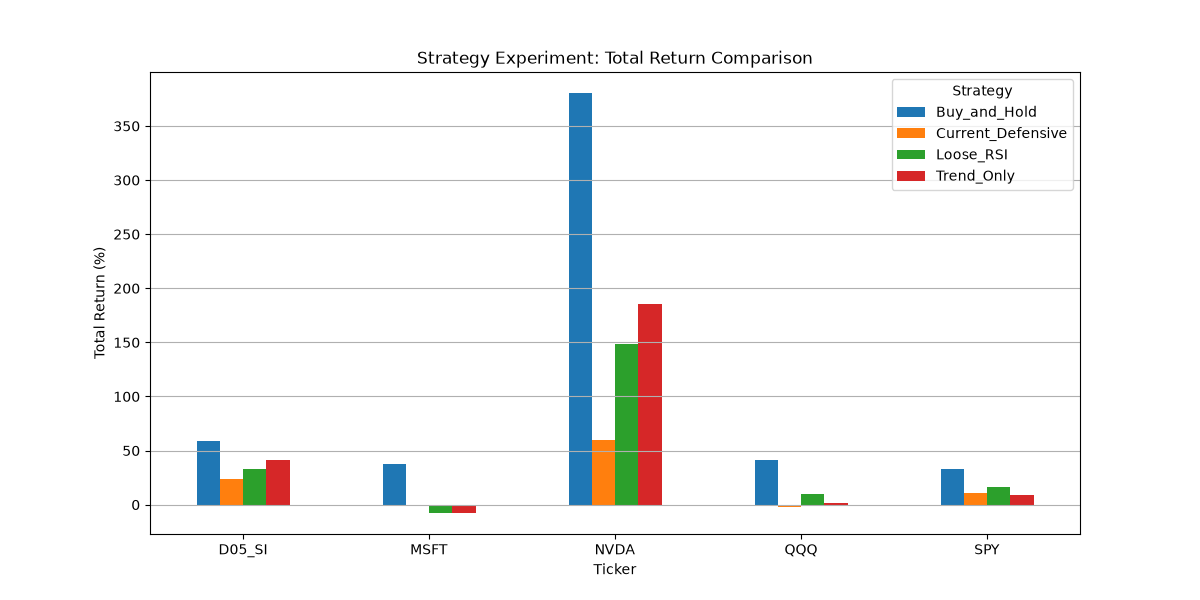
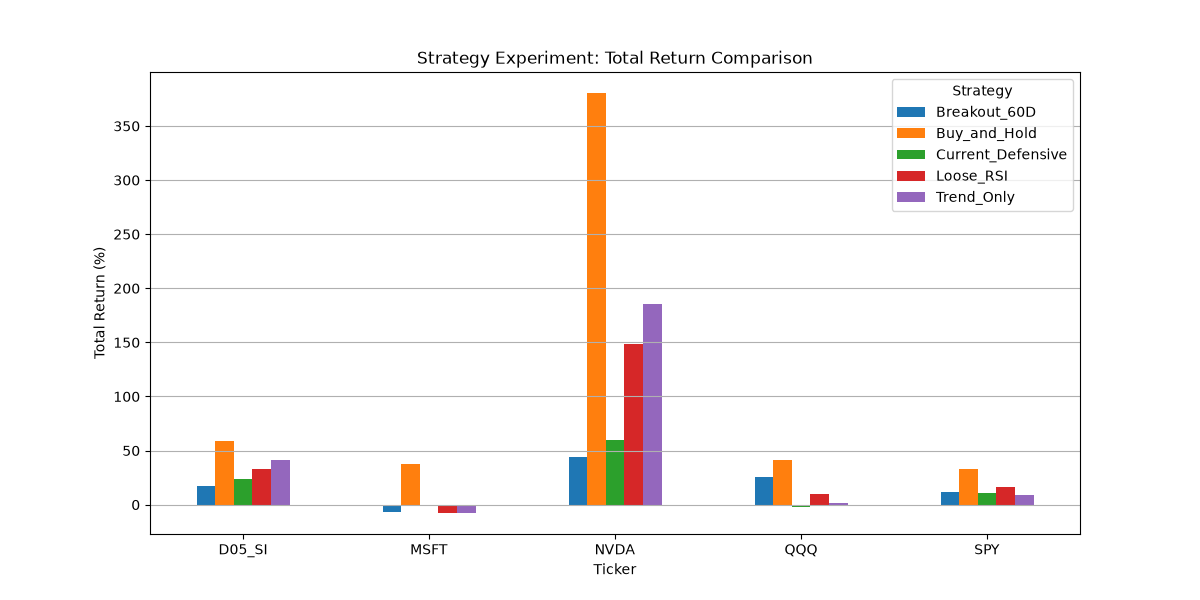
Day 10: add breakout strategy analysis

diff --git a/backtest/strategy_experiment.py b/backtest/strategy_experiment.py
@@ -71,6 +71,16 @@ def apply_strategy_rule(df, strategy_name):
             0
         )
 
+    elif strategy_name == "Breakout_60D":
+        # Buy when today's close breaks above yesterday's 60-day high
+        df["rolling_60d_high"] = df["Close"].rolling(window=60).max().shift(1)
+
+        df["position"] = np.where(
+            df["Close"] > df["rolling_60d_high"],
+            1,
+            0
+        )
+
     elif strategy_name == "Buy_and_Hold":
         # Always invested
         df["position"] = 1
@@ -169,7 +179,8 @@ if __name__ == "__main__":
         "Buy_and_Hold",
         "Current_Defensive",
         "Trend_Only",
-        "Loose_RSI"
+        "Loose_RSI",
+        "Breakout_60D"
     ]
 
     os.makedirs("backtest/results", exist_ok=True)

diff --git a/reports/reports/notes/day10_breakout_strategy_notes.md b/reports/reports/notes/day10_breakout_strategy_notes.md
@@ -1,0 +1,111 @@
+# Day 10 Breakout Strategy Notes
+
+## 1. Objective
+
+The objective of this experiment was to add a 60-day breakout strategy and compare it with the existing rule-based strategies.
+
+The breakout strategy was added to test whether resistance-breakout signals can improve risk-adjusted performance by entering the market only during strong upward price movements.
+
+---
+
+## 2. Strategy Definition
+
+### Breakout 60D
+
+The Breakout_60D strategy buys when:
+
+```text
+Today's Close > Yesterday's 60-day high
+```
+
+This means the model enters a position only when the current closing price breaks above the highest closing price from the previous 60 trading days.
+
+To avoid look-ahead bias, the 60-day high was shifted by one day:
+
+```python
+df["rolling_60d_high"] = df["Close"].rolling(window=60).max().shift(1)
+```
+
+This ensures that the strategy only uses information that would have been available before today's close.
+
+---
+
+## 3. Key Results
+
+The Breakout_60D strategy generally produced lower total returns than Buy and Hold.
+
+However, it significantly reduced maximum drawdown across several assets.
+
+For example:
+
+* NVDA Buy and Hold MDD: -59.43%
+
+* NVDA Breakout_60D MDD: -15.28%
+
+* SPY Buy and Hold MDD: -21.61%
+
+* SPY Breakout_60D MDD: -3.10%
+
+* QQQ Buy and Hold MDD: -29.20%
+
+* QQQ Breakout_60D MDD: -3.43%
+
+* D05_SI Buy and Hold MDD: -16.61%
+
+* D05_SI Breakout_60D MDD: -3.05%
+
+---
+
+## 4. Interpretation
+
+The Breakout_60D strategy was highly selective. It did not stay invested at all times, unlike Buy and Hold.
+
+As a result, it missed some upside during strong bull markets, especially in NVDA.
+
+However, the strategy avoided many large drawdowns because it only entered the market after a strong breakout signal.
+
+This made the strategy more defensive and improved risk-adjusted performance for some assets.
+
+---
+
+## 5. Asset-Level Insights
+
+### NVDA
+
+For NVDA, Buy and Hold and Trend Only performed better than Breakout_60D in total return.
+
+This suggests that NVDA had strong long-term momentum, and a highly selective breakout strategy missed too much upside.
+
+### SPY
+
+For SPY, Breakout_60D produced a much lower maximum drawdown and a higher Sharpe ratio than Buy and Hold.
+
+This suggests that selective entry based on breakout signals helped reduce downside exposure.
+
+### QQQ
+
+QQQ showed the strongest improvement in risk-adjusted performance.
+
+Breakout_60D had lower total return than Buy and Hold, but it achieved a much higher Sharpe ratio and significantly lower maximum drawdown.
+
+### D05_SI
+
+For D05_SI, Breakout_60D reduced maximum drawdown substantially, although total return was lower than Buy and Hold.
+
+This suggests that breakout-based entry may be useful as a defensive strategy for Singapore bank exposure.
+
+---
+
+## 6. Main Research Insight
+
+The Breakout_60D strategy is not a return-maximizing strategy.
+
+Instead, it behaves more like a risk-management strategy.
+
+It reduces downside exposure by entering only after strong price breakouts, which can improve Sharpe ratio for some assets such as SPY and QQQ.
+
+---
+
+## 7. Sumamry
+
+The 60-day breakout strategy produced lower total returns than Buy and Hold, but it significantly reduced maximum drawdown across several assets. For SPY and QQQ, the breakout strategy improved Sharpe ratio, suggesting that selective entry based on resistance breakout can improve risk-adjusted performance by reducing downside exposure.